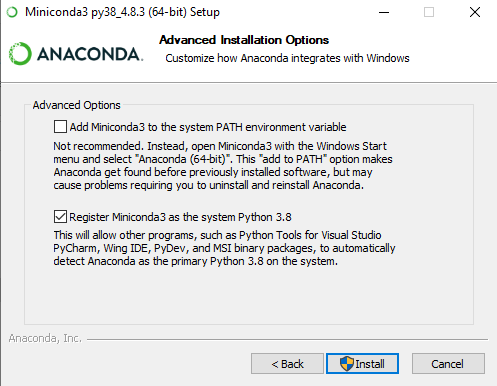
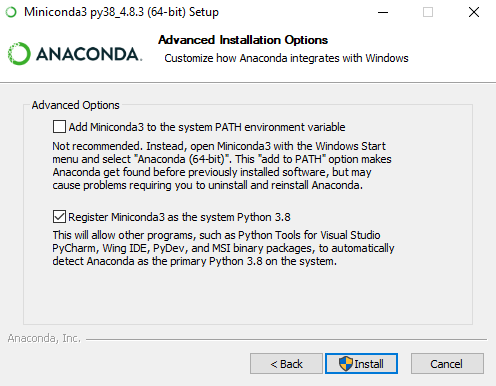
2020-10-06

diff --git a/_posts/2020-07-05-windows10-software.md b/_posts/2020-07-05-windows10-software.md
@@ -75,10 +75,10 @@ Gestore file compressi
 
 ## [Miniconda](https://docs.conda.io/en/latest/miniconda.html)
 1. Ci assicuriamo di avere rimosso la precedente installazione (eg. Uninstall-Miniconda3.exe)
-1. Installazione
+1. Installazione  
 <img src="/assets/images/miniconda_1.png" width="400">
 <img src="/assets/images/miniconda_2.png" width="400">
-![png](/assets/images/miniconda_3.png)
+<img src="/assets/images/miniconda_3.png" width="400">
 1. altro
 1. Una volta installato apro l'Anaconda Prompt (miniconda3)  
 ```console
